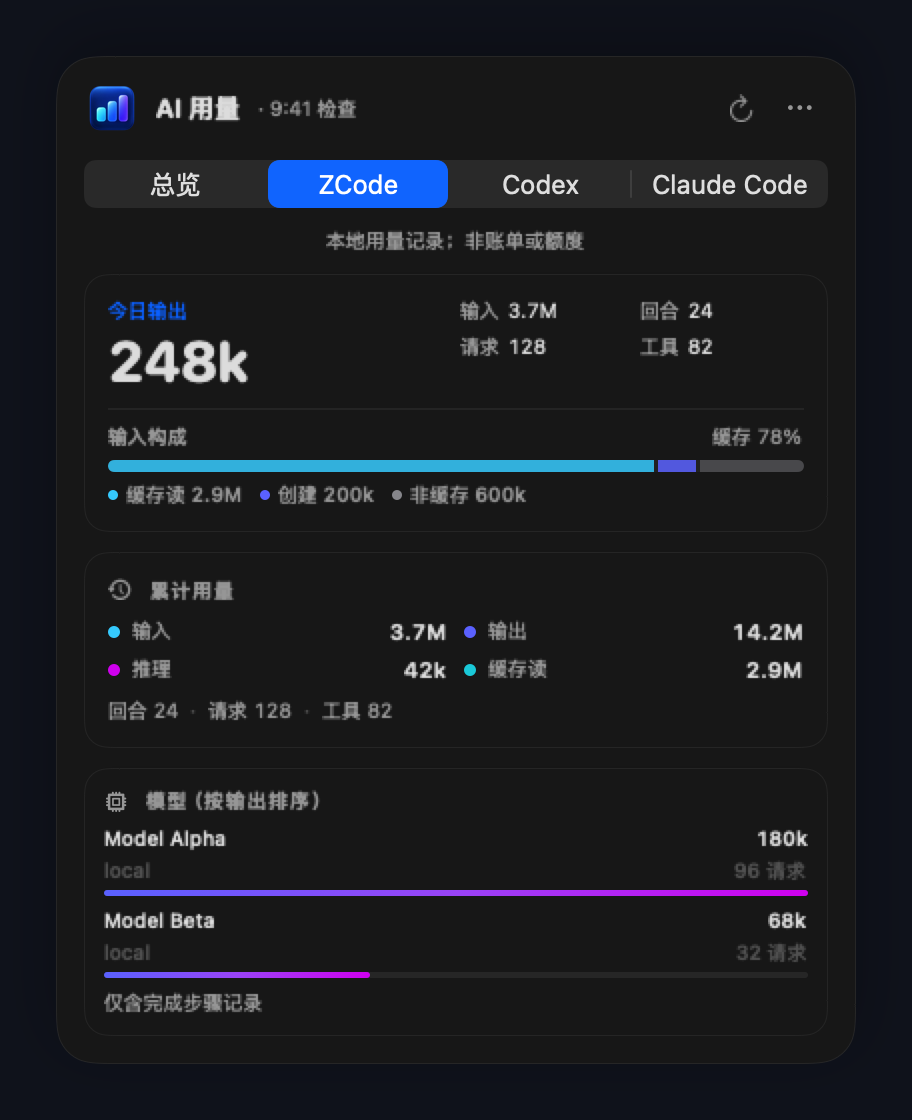
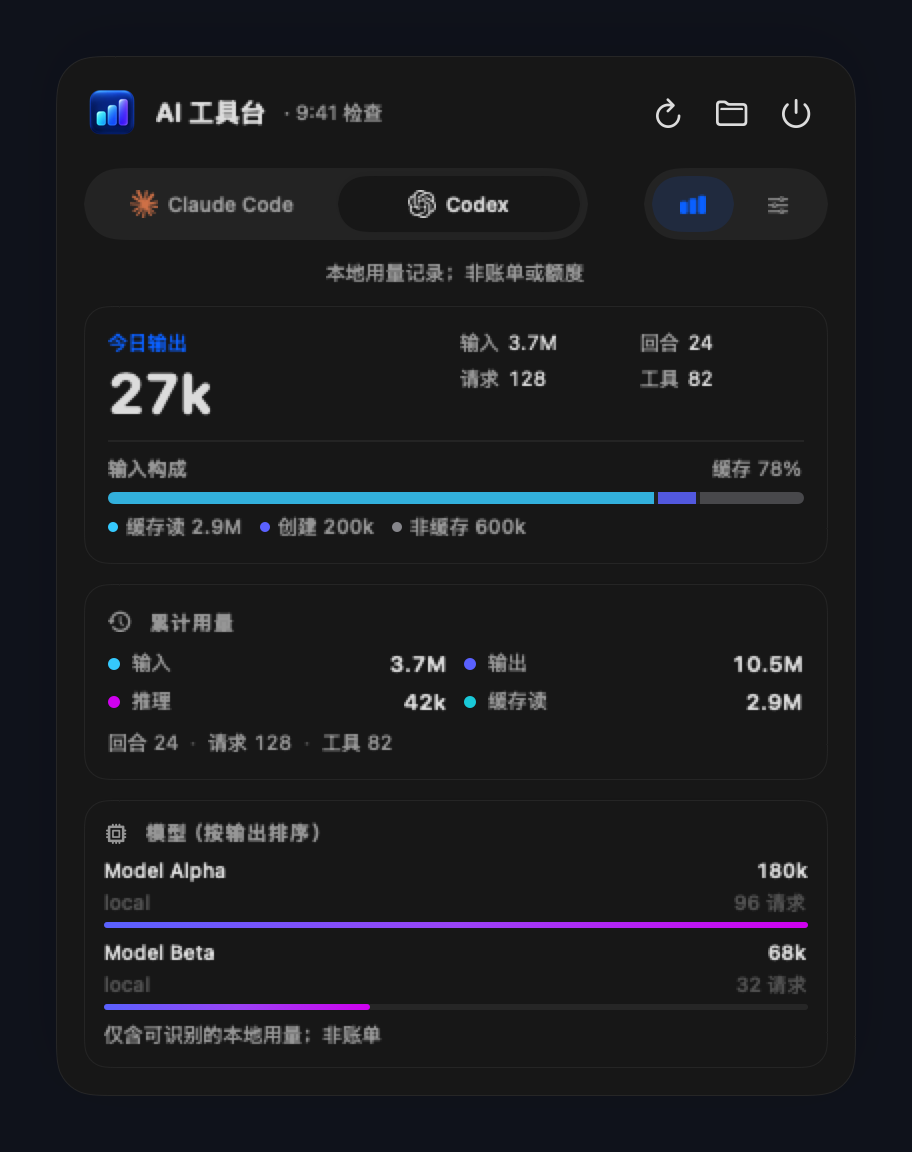
Refresh README and docs screenshots for AI Toolbox.
Regenerate hero, usage, and config captures for Codex and Claude Code only, and align README, data-sources, and icon prompt copy with current branding.

diff --git a/README.md b/README.md
@@ -29,12 +29,20 @@ AI 工具台是一个 macOS 菜单栏应用，集中展示 **Codex** 与 **Claud
 
 <table>
   <tr>
-    <td align="center"><strong>浅色 · 用量与配置</strong></td>
-    <td align="center"><strong>深色 · 同样清晰的统计层级</strong></td>
+    <td align="center"><strong>浅色 · 用量</strong></td>
+    <td align="center"><strong>深色 · 用量</strong></td>
   </tr>
   <tr>
-    <td><img src="docs/images/detail-light.png" alt="浅色模式：今日输出、输入构成、累计用量和模型排行" width="440"></td>
-    <td><img src="docs/images/detail-dark.png" alt="深色模式：同一原生用量详情面板" width="440"></td>
+    <td><img src="docs/images/detail-light.png" alt="浅色模式：Codex 今日输出、输入构成、累计用量和模型排行" width="440"></td>
+    <td><img src="docs/images/detail-dark.png" alt="深色模式：Codex 用量详情面板" width="440"></td>
+  </tr>
+  <tr>
+    <td align="center"><strong>浅色 · 配置</strong></td>
+    <td align="center"><strong>深色 · 配置</strong></td>
+  </tr>
+  <tr>
+    <td><img src="docs/images/config-light.png" alt="浅色模式：Codex 供应商列表与切换" width="440"></td>
+    <td><img src="docs/images/config-dark.png" alt="深色模式：Codex 供应商配置面板" width="440"></td>
   </tr>
 </table>
 
@@ -88,7 +96,7 @@ Assets/       应用图标及生成提示词
 Sources/      SwiftUI 界面、数据来源与刷新逻辑
 Tests/        聚合、去重、缓存、异常和状态测试
 scripts/      macOS 应用打包
-docs/         统计口径与界面图片
+docs/         统计口径与界面截图
 ```
 
 ```bash
@@ -103,11 +111,13 @@ bash scripts/package-app.sh        # 打包并验证签名
 USAGE_LOCAL_SMOKE=1 swift test --filter MultiProviderTests/testLocalSourcesWhenExplicitlyEnabled
 ```
 
-重新生成 README 图片，不读取本机会话：
+重新生成 README 截图，不读取本机会话：
 
 ```bash
 USAGE_RENDER_DOCS=1 swift test --filter DocumentationRenderTests
 ```
+
+会更新 `docs/images/` 下的 `hero.png`、`detail-*.png` 与 `config-*.png`。
 
 ## License
 

diff --git a/docs/data-sources.md b/docs/data-sources.md
@@ -1,5 +1,7 @@
 # 数据来源与统计口径
 
+AI 工具台（AI Toolbox）从本机 Codex 与 Claude Code 日志读取用量，并在配置面板写入对应的供应商设置。
+
 | 来源 | 默认路径 | 统计方式 |
 | --- | --- | --- |
 | Codex | `~/.codex/sessions`、`~/.codex/archived_sessions` | 读取 `token_usage_record.payload.usage`，按响应 ID 去重，模型通过 `turn_context` 关联 |
